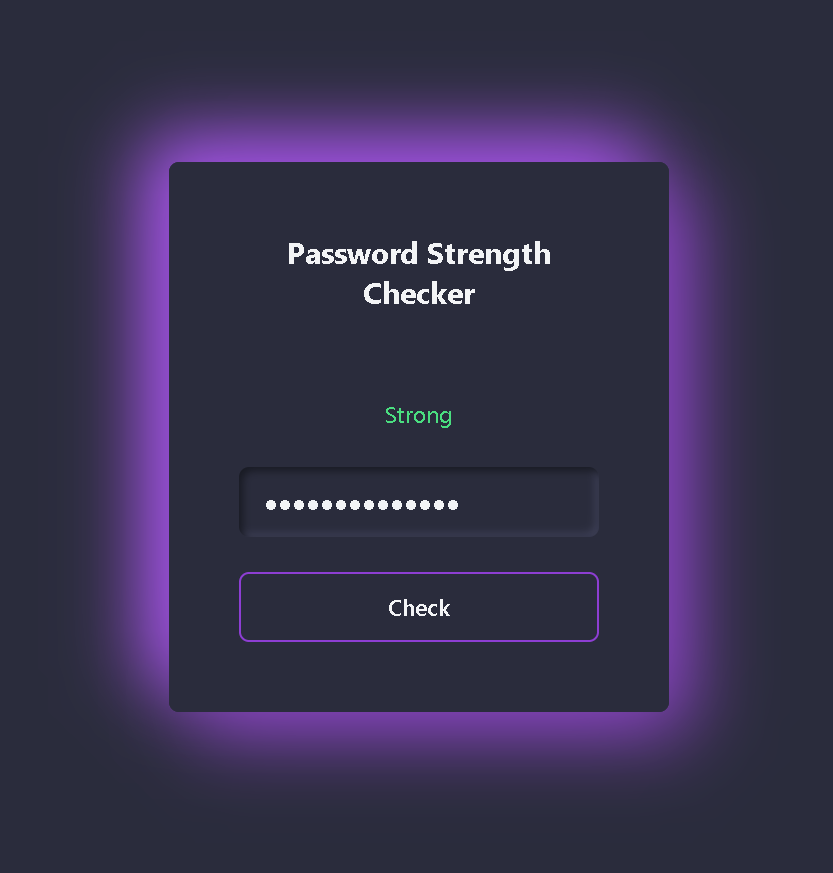
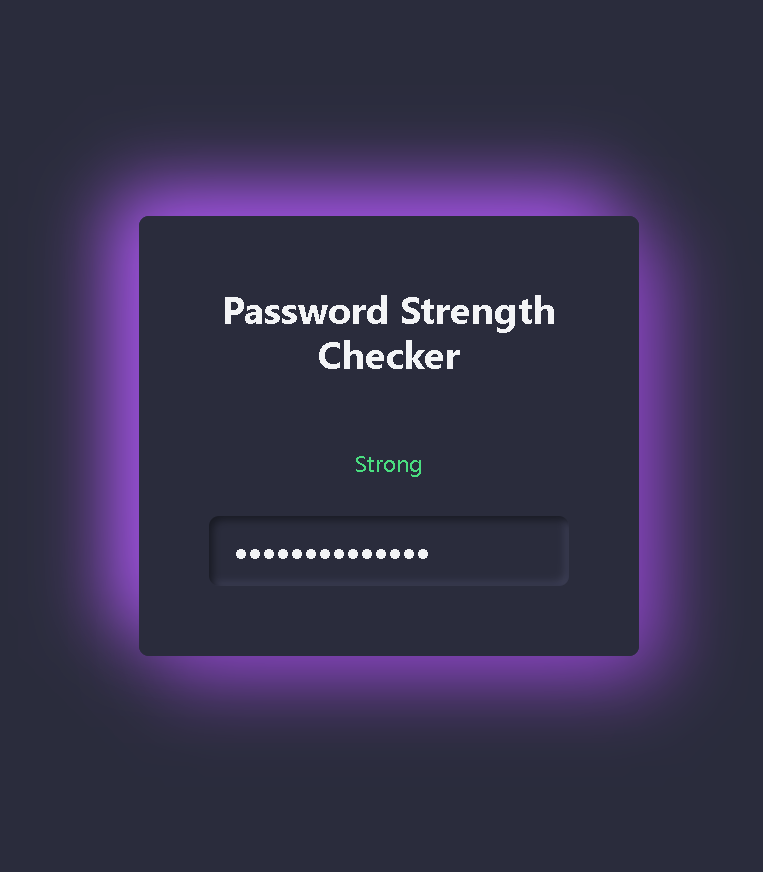
checker added with app.js

diff --git a/public/index.html b/public/index.html
@@ -17,21 +17,17 @@
     <div
       class="flex w-[400px] flex-col gap-7 rounded-lg bg-primary-color p-14 shadow-[20px_20px_60px_rgb(133,66,188),-20px_-20px_60px_rgb(181,90,254)]"
     >
-      <div class="mb-10 text-center text-2xl font-bold">
+      <div class="mb-7 text-center text-3xl font-bold">
         Password Strength Checker
       </div>
-      <div id="strength" class="text-center text-lg text-green-400">Strong</div>
+      <div id="strength" class="text-center text-lg"></div>
       <input
         type="password"
         id="password"
         class="h-14 w-full rounded-lg bg-primary-color px-5 text-lg shadow-[inset_3px_3px_6px_rgb(24,26,35),inset_-3px_-3px_6px_rgb(60,62,85)] outline-none"
       />
-      <button
-        id="check"
-        class="h-14 w-full rounded-lg border-2 border-solid border-[#8d3ed3] text-lg font-semibold transition-all duration-300 ease-in-out hover:cursor-pointer hover:shadow-[0px_0px_15px_rgb(186,104,200),0px_0px_35px_rgb(123,44,191)]"
-      >
-        Check
-      </button>
     </div>
+
+    <script src="/src/app.js"></script>
   </body>
 </html>

diff --git a/src/app.js b/src/app.js
@@ -1,0 +1,19 @@
+const password = document.getElementById("password");
+let strength = document.getElementById("strength");
+
+strength.innerText = "Uncertain";
+
+password.addEventListener("input", (e) => {
+  const length = e.target.value.length;
+
+  if (length === 0) {
+    strength.innerText = "Uncertain";
+    strength.style.color = "rgb(243 244 246)";
+  } else if (length <= 10) {
+    strength.innerText = "Weak";
+    strength.style.color = "rgb(253 224 71)";
+  } else {
+    strength.innerText = "Strong";
+    strength.style.color = "rgb(74 222 128)";
+  }
+});
